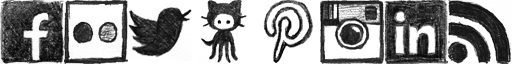
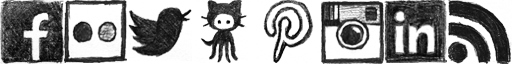
dealing with external links sprite

diff --git a/sass/_helpers.scss b/sass/_helpers.scss
@@ -73,15 +73,18 @@
 }
 
 @mixin external-link-icon($index, $size) {
-	line-height: 1;
+	width: $size;
+	height: $size;
+	display: inline-block;
+	line-height: $size;
 	vertical-align: middle;
+	position: relative;
+	overflow: hidden;
 
-	&:before {
-		@include icon($index, 8, url(../images/external-icons.png));
-		width: $size;
-		height: $size;
-		display: inline-block;
-		line-height: $size;
-		vertical-align: middle;
+	.sprite {
+		height: 100%;
+		position: absolute;
+		left: -1 * ($index - 1) * 100%;
 	}
+
 }

diff --git a/sass/_components.scss b/sass/_components.scss
@@ -59,6 +59,8 @@
 
 @mixin external-links-icon($icon-size: 32px) {
 	a {
+		margin-bottom: padding(0.5);
+
 		span {
 			@include offscreen;
 		}
@@ -105,6 +107,7 @@
 		repeat: no-repeat;
 		size: contain;
 	}
+	-ms-behavior: url(../backgroundsize.min.htc);
 
 	&:before {
 		content: '';

diff --git a/external-links.php b/external-links.php
@@ -1,10 +1,14 @@
+<?php
+	$external_icons_img = get_template_directory_uri() . '/images/external-icons.png';
+?>
+
 <div class="external-links">
-	<a href="#" class="fb"><span>Facebook</span></a>
-	<a href="#" class="twitter"><span>Twitter</span></a>
-	<a href="#" class="flickr"><span>Flickr</span></a>
-	<a href="#" class="pinterest"><span>Pinterest</span></a>
-	<a href="#" class="instagram"><span>Instagram</span></a>
-	<a href="#" class="github"><span>Github</span></a>
-	<a href="<?php get_bloginfo_rss('rss2_url'); ?>" class="rss"><span>RSS></span></a>
+	<a href="#" class="fb"><img class="sprite" alt="" src="<?php echo $external_icons_img; ?>"><span>Facebook</span></a>
+	<a href="#" class="twitter"><img class="sprite" alt="" src="<?php echo $external_icons_img; ?>"><span>Twitter</span></a>
+	<a href="#" class="flickr"><img class="sprite" alt="" src="<?php echo $external_icons_img; ?>"><span>Flickr</span></a>
+	<a href="#" class="pinterest"><img class="sprite" alt="" src="<?php echo $external_icons_img; ?>"><span>Pinterest</span></a>
+	<a href="#" class="instagram"><img class="sprite" alt="" src="<?php echo $external_icons_img; ?>"><span>Instagram</span></a>
+	<a href="#" class="github"><img class="sprite" alt="" src="<?php echo $external_icons_img; ?>"><span>Github</span></a>
+	<a href="<?php echo get_bloginfo_rss('rss2_url'); ?>" class="rss"><img class="sprite" alt="" src="<?php echo $external_icons_img; ?>"><span>RSS></span></a>
 
 </div>
